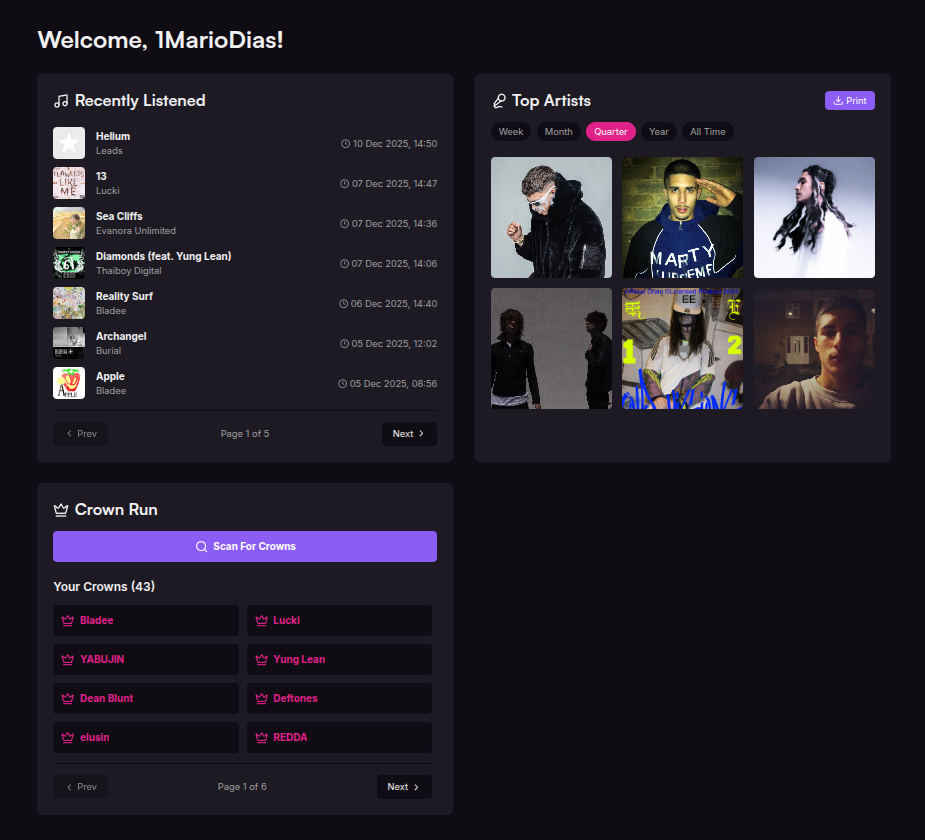
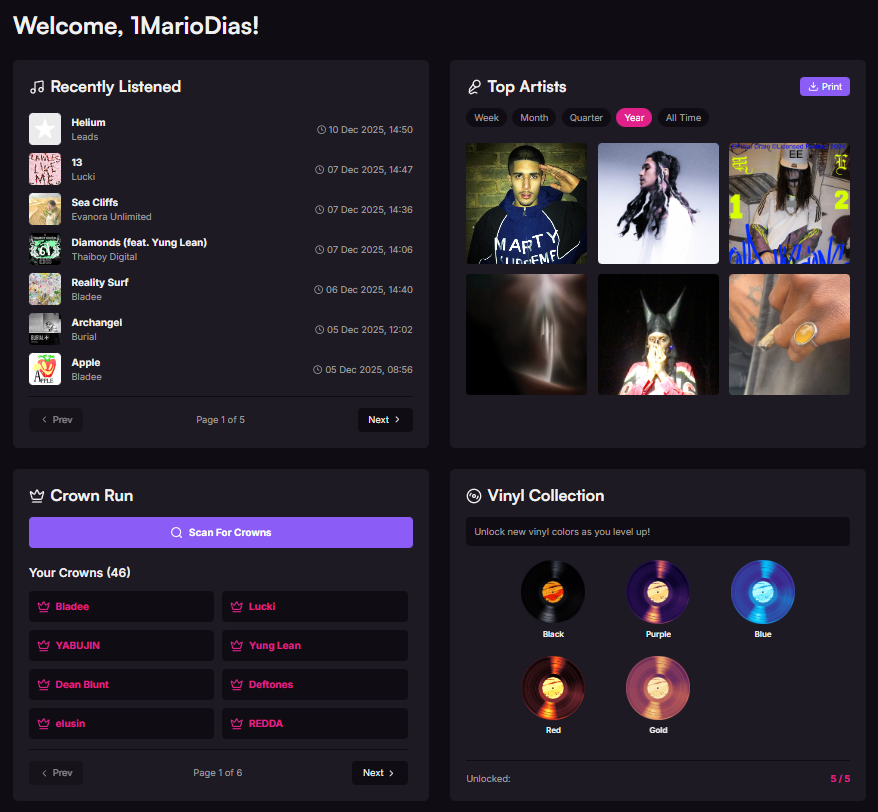
updated ReadMe

diff --git a/README.md b/README.md
@@ -13,6 +13,8 @@
   <img src="https://img.shields.io/badge/Vite-7.2.2-646CFF?style=for-the-badge&logo=vite&logoColor=white" alt="Vite" />
   <img src="https://img.shields.io/badge/Pinia-3.0.4-FFD859?style=for-the-badge&logo=pinia&logoColor=black" alt="Pinia" />
   <img src="https://img.shields.io/badge/Tailwind-3.4.11-06B6D4?style=for-the-badge&logo=tailwindcss&logoColor=white" alt="TailwindCSS" />
+  <img src="https://img.shields.io/badge/GSAP-3.14.2-88CE02?style=for-the-badge&logo=greensock&logoColor=white" alt="GSAP" />
+  <img src="https://img.shields.io/badge/Vitest-4.0.18-6E9F18?style=for-the-badge&logo=vitest&logoColor=white" alt="Vitest" />
 </p>
 
 ---
@@ -114,6 +116,7 @@ Compete with other WUSIK users to become the ultimate fan:
 - **Pinia** - Intuitive state management
 - **Vue Router** - Official routing library
 - **Tailwind CSS** - Utility-first CSS framework
+- **GSAP** - Professional-grade animation library with ScrollTrigger plugin
 
 ### APIs & Services
 - **Last.fm API** - Music metadata and scrobble tracking
@@ -124,6 +127,11 @@ Compete with other WUSIK users to become the ultimate fan:
 - **Axios** - Promise-based HTTP client
 - **html2canvas** - Screenshot functionality for collages
 - **Lucide Vue** - Beautiful icon system
+
+### Testing
+- **Vitest** - Fast unit testing framework
+- **@vue/test-utils** - Official Vue component testing utilities
+- **jsdom** - DOM implementation for Node.js
 
 ---
 
@@ -209,13 +217,46 @@ Compete with other WUSIK users to become the ultimate fan:
 
 ## 🧪 Testing
 
-### Run Tests
+WUSIK uses **Vitest** for fast, modern unit testing with Vue component support.
+
+### Test Configuration
+- **Framework**: Vitest 4.0.18
+- **Environment**: jsdom (browser-like environment)
+- **Test Utils**: @vue/test-utils 2.4.6
+- **Setup File**: `src/components/__tests__/setup.js`
+
+### Running Tests
 ```bash
-npm run test
+# Run all tests
+npm run test:unit
 ```
 
 ### Test Coverage
-Under Construction
+
+#### Components Tested
+
+**1. RecentTracks Component** ([`RecentTracks.spec.js`](src/components/__tests__/RecentTracks.spec.js))
+- ✅ Recent tracks display
+- ✅ Last.fm API integration
+- ✅ Track data rendering (name, artist, album)
+- ✅ Loading state management
+- ✅ Error handling
+- ✅ Empty state handling
+
+**2. GoalForm Component** ([`GoalForm.spec.js`](src/components/__tests__/GoalForm.spec.js))
+- ✅ Form rendering and initialization
+- ✅ Goal creation with Last.fm API integration
+- ✅ Form validation
+- ✅ Router navigation after submission
+
+**3. LoginButton Component** ([`LoginButton.spec.js`](src/components/__tests__/LoginButton.spec.js))
+- ✅ Dashboard/Login prop rendering
+- ✅ Navigation routes after click
+
+### Test Setup
+Global mocks configured in [`setup.js`](src/components/__tests__/setup.js):
+- Vue Router mocks ($router, $route)
+- URL.createObjectURL mock for file handling
 
 ---
 
